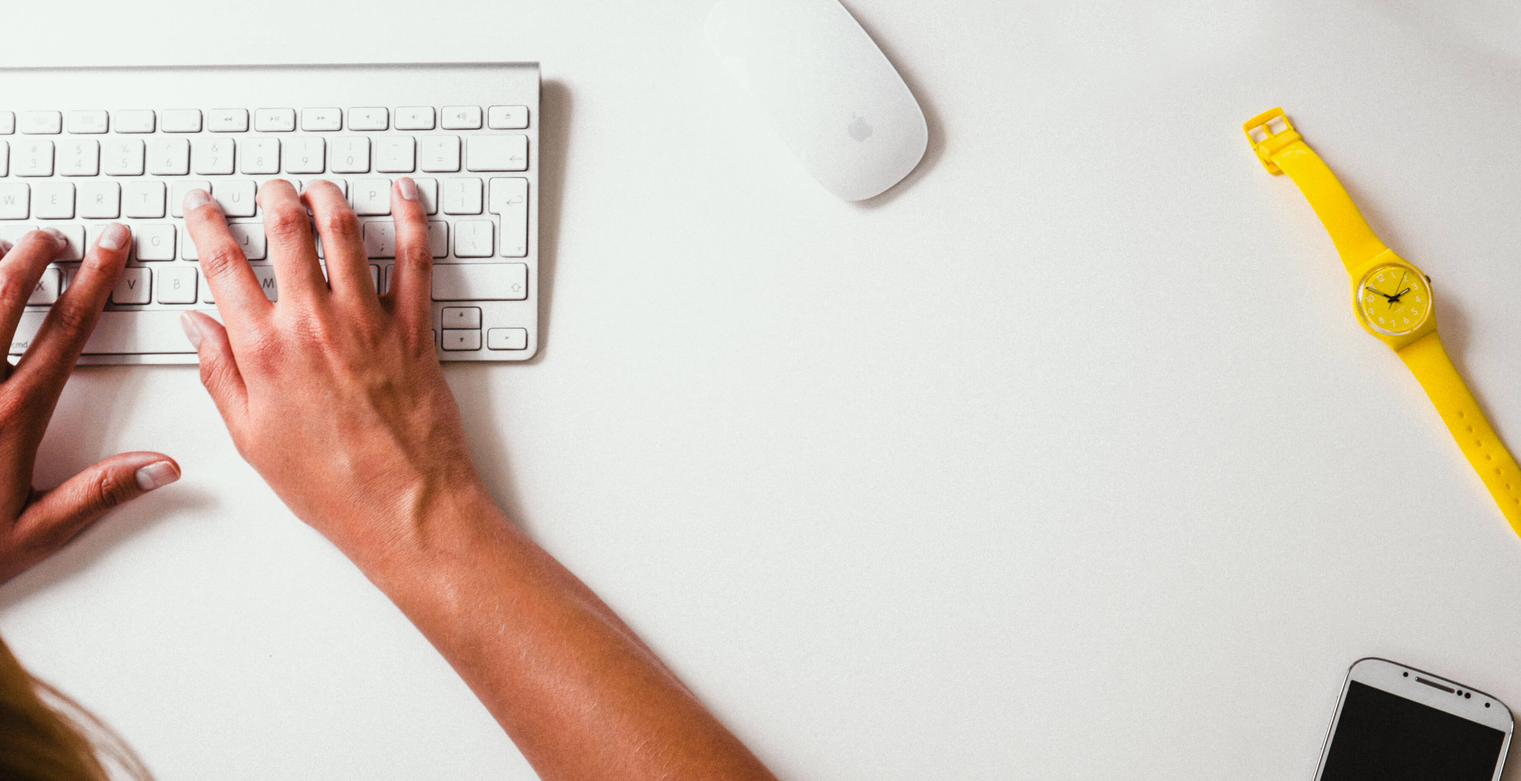
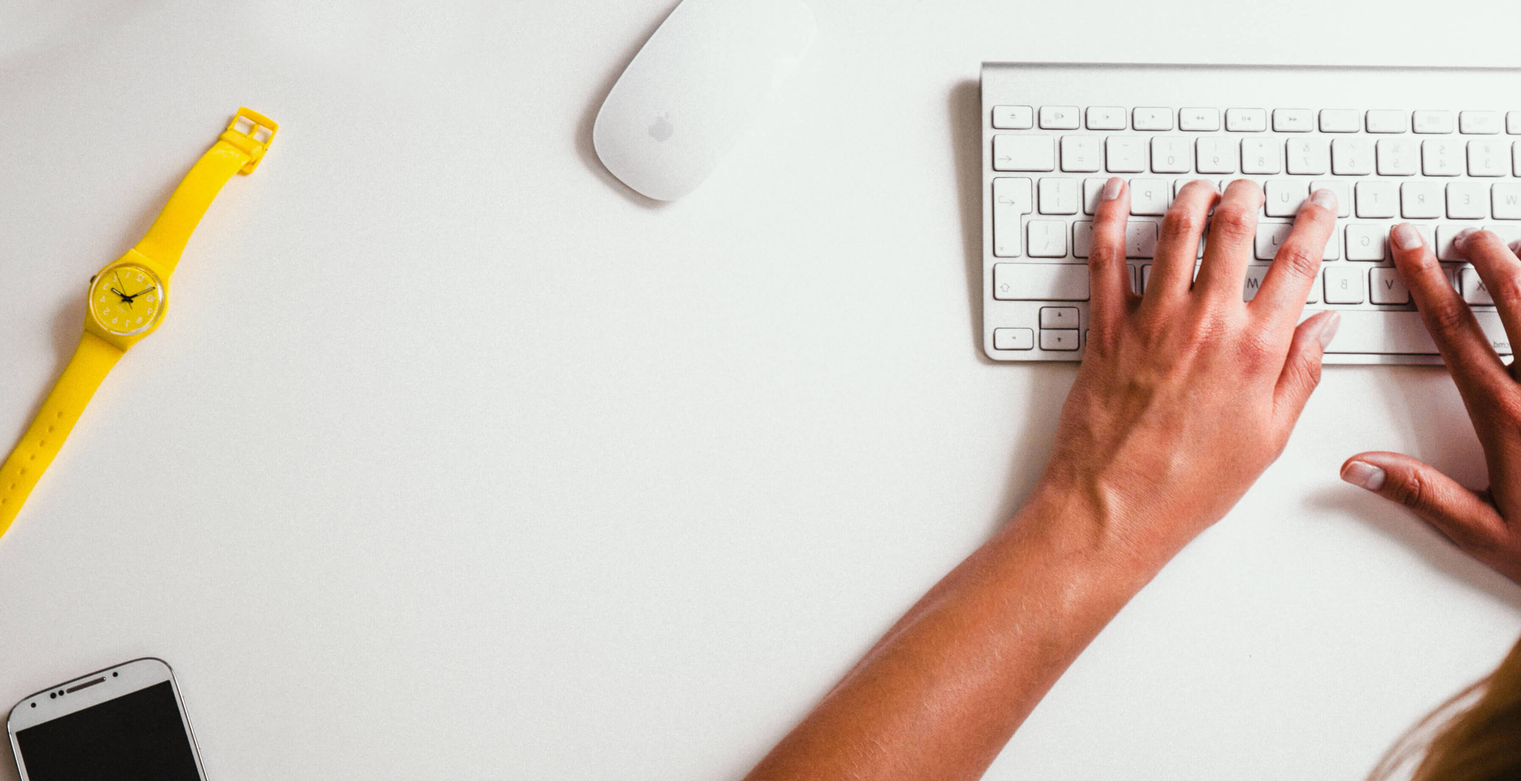
Added backdrop

diff --git a/app/home/home.tpl.html b/app/home/home.tpl.html
@@ -1,16 +1,18 @@
-<div class="wrapper">
-  <div class="col-md-4 phone-holder">
-    <div class="phone">
-      <div class="phone-video">
-        <video class="img-responsive img-rounded" src="images/videos/empty-show.mp4" autoplay loop muted></video>
-      </div>
-      <div class="phone-image">
-        <img src="http://placehold.it/263x480" class="img-responsive img-rounded">
+<div class="wrapper bg">
+  <div class="container">
+    <div class="col-lg-3 col-md-4 phone-holder">
+      <div class="phone">
+        <div class="phone-video">
+          <video class="img-responsive img-rounded" src="images/videos/empty-show.mp4" autoplay loop muted></video>
+        </div>
+        <div class="phone-image">
+          <img src="http://placehold.it/263x480" class="img-responsive img-rounded">
+        </div>
       </div>
     </div>
-  </div>
-  <div class="col-md-8 content">
-    <h1>trakR - The Financial Tracker</h1>
-    <p class="lead">Keep track of your purchases and where you made them.</p>
+    <div class="col-lg-4 col-md-8 content">
+      <h1>trakR - The Financial Tracker</h1>
+      <p class="lead">Keep track of your purchases and where you made them.</p>
+    </div>
   </div>
 </div>

diff --git a/app/home/home.less b/app/home/home.less
@@ -1,7 +1,25 @@
 @import (reference) "../app.less";
 
-.wrapper {
+.bg {
+  padding-top: 60px;
+  height: 100%;
+  width: 100%;
+  margin: auto;
+  position: relative;
+  background: url(../../../images/desk.jpg) no-repeat center 0;
+  background-size: cover;
+  z-index: -1;
+
+}
+
+.container {
+  overflow: hidden;
+  width: 100%;
+  margin-bottom: 30px;
+  padding-top: 50px;
+  padding-bottom: 50px;
   > .phone-holder {
+    margin-right: 30px;
     .phone {
       position: relative;
       max-width: 263px;

diff --git a/app/index.html b/app/index.html
@@ -19,10 +19,8 @@
     
     <div navbar></div>
 
-    <div class='container'>
-      <div data-ui-view>
+    <div data-ui-view>
 
-      </div>
     </div>
 
     <!-- bower:js -->
